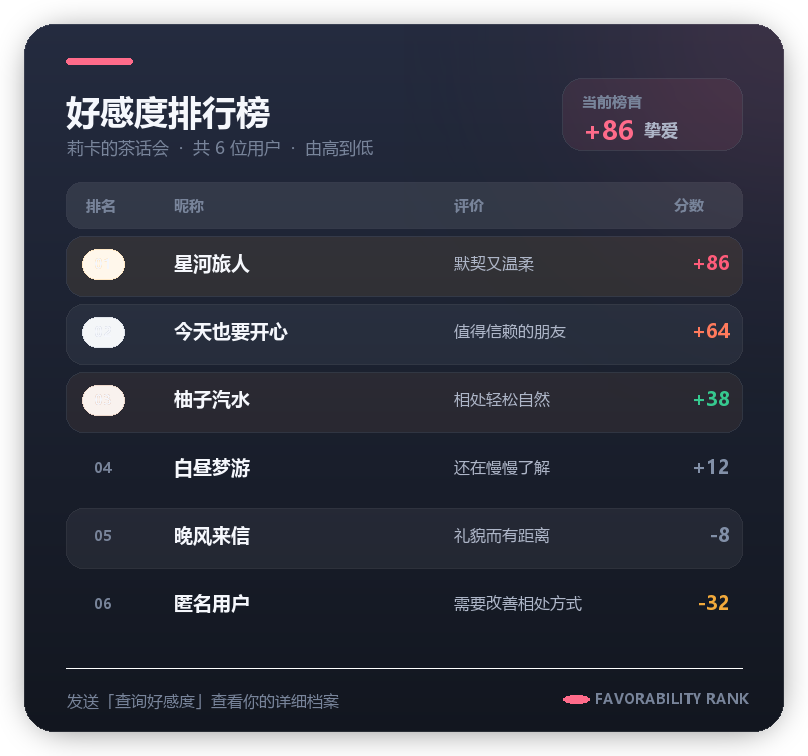
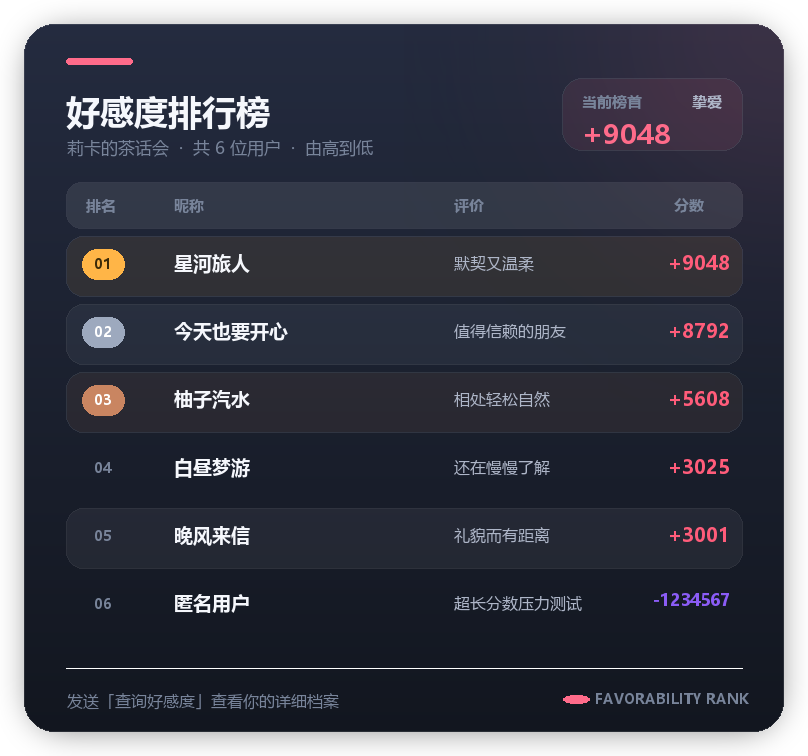
修复

diff --git a/render/image.py b/render/image.py
@@ -287,6 +287,23 @@ class FavorabilityRenderer:
             text = text[:-1]
         return text + "…"
 
+    def _fit_font(
+        self,
+        draw,
+        text: str,
+        max_width: int,
+        preferred_size: int,
+        min_size: int,
+        *,
+        bold: bool = False,
+    ):
+        """在指定宽度内选择尽可能大的字号，避免长数字侵入相邻内容。"""
+        for size in range(preferred_size, min_size - 1, -1):
+            font = _load_font(size, bold)
+            if self._text_width(draw, text, font) <= max_width:
+                return font
+        return _load_font(min_size, bold)
+
     def _wrap(self, draw, text: str, font, max_width: int, max_lines: int) -> list[str]:
         lines: list[str] = []
         current = ""
@@ -350,7 +367,7 @@ class FavorabilityRenderer:
 
         # 分数视觉焦点
         score_text = f"{score:+d}" if score else "0"
-        score_font = _load_font(68, True)
+        score_font = self._fit_font(draw, score_text, 260, 68, 28, bold=True)
         score_w = self._text_width(draw, score_text, score_font)
         draw.text((ox + width - 48 - score_w, oy + 78), score_text, font=score_font, fill=accent)
         label_font = _load_font(16, True)
@@ -407,8 +424,24 @@ class FavorabilityRenderer:
         self._surface(canvas, overview, radius=20, strong=True, accent=accent)
         draw.text((overview[0] + 20, overview[1] + 13), "当前榜首", font=_load_font(15, True), fill=_hex(theme["tertiary"]))
         score_label = f"{best_score:+d}" if best_score else "0"
-        draw.text((overview[0] + 20, overview[1] + 34), score_label, font=_load_font(26, True), fill=accent)
-        draw.text((overview[0] + 82, overview[1] + 40), get_level_info(best_score)["title"], font=_load_font(17, True), fill=_hex(theme["secondary"]))
+        level_title = get_level_info(best_score)["title"]
+        level_font = _load_font(15, True)
+        level_w = self._text_width(draw, level_title, level_font)
+        draw.text(
+            (overview[2] - 20 - level_w, overview[1] + 13),
+            level_title,
+            font=level_font,
+            fill=_hex(theme["secondary"]),
+        )
+        overview_score_font = self._fit_font(
+            draw, score_label, overview[2] - overview[0] - 40, 27, 14, bold=True
+        )
+        draw.text(
+            (overview[0] + 20, overview[1] + 37),
+            score_label,
+            font=overview_score_font,
+            fill=accent,
+        )
 
         # 表头
         header_y = oy + 158
@@ -419,6 +452,7 @@ class FavorabilityRenderer:
 
         medals = ["01", "02", "03"]
         medal_colors = [_hex("#FFB547"), _hex("#9DA9BE"), _hex("#C98561")]
+        medal_text_colors = [_hex("#3B2A08"), _hex("#FFFFFF"), _hex("#FFFFFF")]
         y = header_y + 54
         for index, (uid, data) in enumerate(rows):
             score = int(data.get("score", 0))
@@ -433,9 +467,15 @@ class FavorabilityRenderer:
             rank_box = (ox + 58, y + 13, ox + 100, y + 43)
             rank_color = medal_colors[index] if index < 3 else _hex(theme["tertiary"])
             if index < 3:
-                ImageDraw.Draw(canvas).rounded_rectangle(rank_box, radius=15, fill=(*rank_color, 28), outline=(*rank_color, 80), width=1)
+                # 前三名序号使用完全不透明的实色底，避免客户端合成透明 PNG
+                # 时出现底色发灰、文字对比度不稳定等问题。
+                draw.rounded_rectangle(
+                    rank_box,
+                    radius=15,
+                    fill=(*rank_color, 255),
+                )
             rank_text_color = (
-                _hex(theme["text"]) if index < 3 else rank_color
+                medal_text_colors[index] if index < 3 else rank_color
             )
             self._center_text(
                 draw,
@@ -449,10 +489,10 @@ class FavorabilityRenderer:
             name = str(data.get("name") or uid)
             draw.text((ox + 150, y + 13), self._ellipsize(draw, name, name_font, 245), font=name_font, fill=_hex(theme["text"]))
             eval_font = _load_font(16)
-            evaluation = self._ellipsize(draw, str(data.get("eval") or "暂无评价"), eval_font, 190)
+            evaluation = self._ellipsize(draw, str(data.get("eval") or "暂无评价"), eval_font, 176)
             draw.text((ox + 430, y + 16), evaluation, font=eval_font, fill=_hex(theme["secondary"]))
             score_text = f"{score:+d}" if score else "0"
-            score_font = _load_font(20, True)
+            score_font = self._fit_font(draw, score_text, 82, 20, 12, bold=True)
             score_w = self._text_width(draw, score_text, score_font)
             draw.text((ox + width - 54 - score_w, y + 12), score_text, font=score_font, fill=level_color)
             y += row_h

diff --git a/scripts/preview_render.py b/scripts/preview_render.py
@@ -27,12 +27,12 @@ from astrbot_plugin_favorability.render.image import FavorabilityRenderer
 
 
 SAMPLE_RANKING = [
-    ("10001", {"name": "星河旅人", "score": 86, "eval": "默契又温柔"}),
-    ("10002", {"name": "今天也要开心", "score": 64, "eval": "值得信赖的朋友"}),
-    ("10003", {"name": "柚子汽水", "score": 38, "eval": "相处轻松自然"}),
-    ("10004", {"name": "白昼梦游", "score": 12, "eval": "还在慢慢了解"}),
-    ("10005", {"name": "晚风来信", "score": -8, "eval": "礼貌而有距离"}),
-    ("10006", {"name": "匿名用户", "score": -32, "eval": "需要改善相处方式"}),
+    ("10001", {"name": "星河旅人", "score": 9048, "eval": "默契又温柔"}),
+    ("10002", {"name": "今天也要开心", "score": 8792, "eval": "值得信赖的朋友"}),
+    ("10003", {"name": "柚子汽水", "score": 5608, "eval": "相处轻松自然"}),
+    ("10004", {"name": "白昼梦游", "score": 3025, "eval": "还在慢慢了解"}),
+    ("10005", {"name": "晚风来信", "score": 3001, "eval": "礼貌而有距离"}),
+    ("10006", {"name": "匿名用户", "score": -1234567, "eval": "超长分数压力测试"}),
 ]
 
 
@@ -44,7 +44,7 @@ def main() -> None:
         card = Path(renderer.render_favorability_card(
             user_name="星河旅人",
             user_id="10001",
-            score=86,
+            score=1234567,
             evaluation="她觉得你真诚、温柔，也很珍惜每一次认真回应。",
         ))
         ranking = Path(renderer.render_ranking_image(SAMPLE_RANKING, group_name="莉卡的茶话会"))
